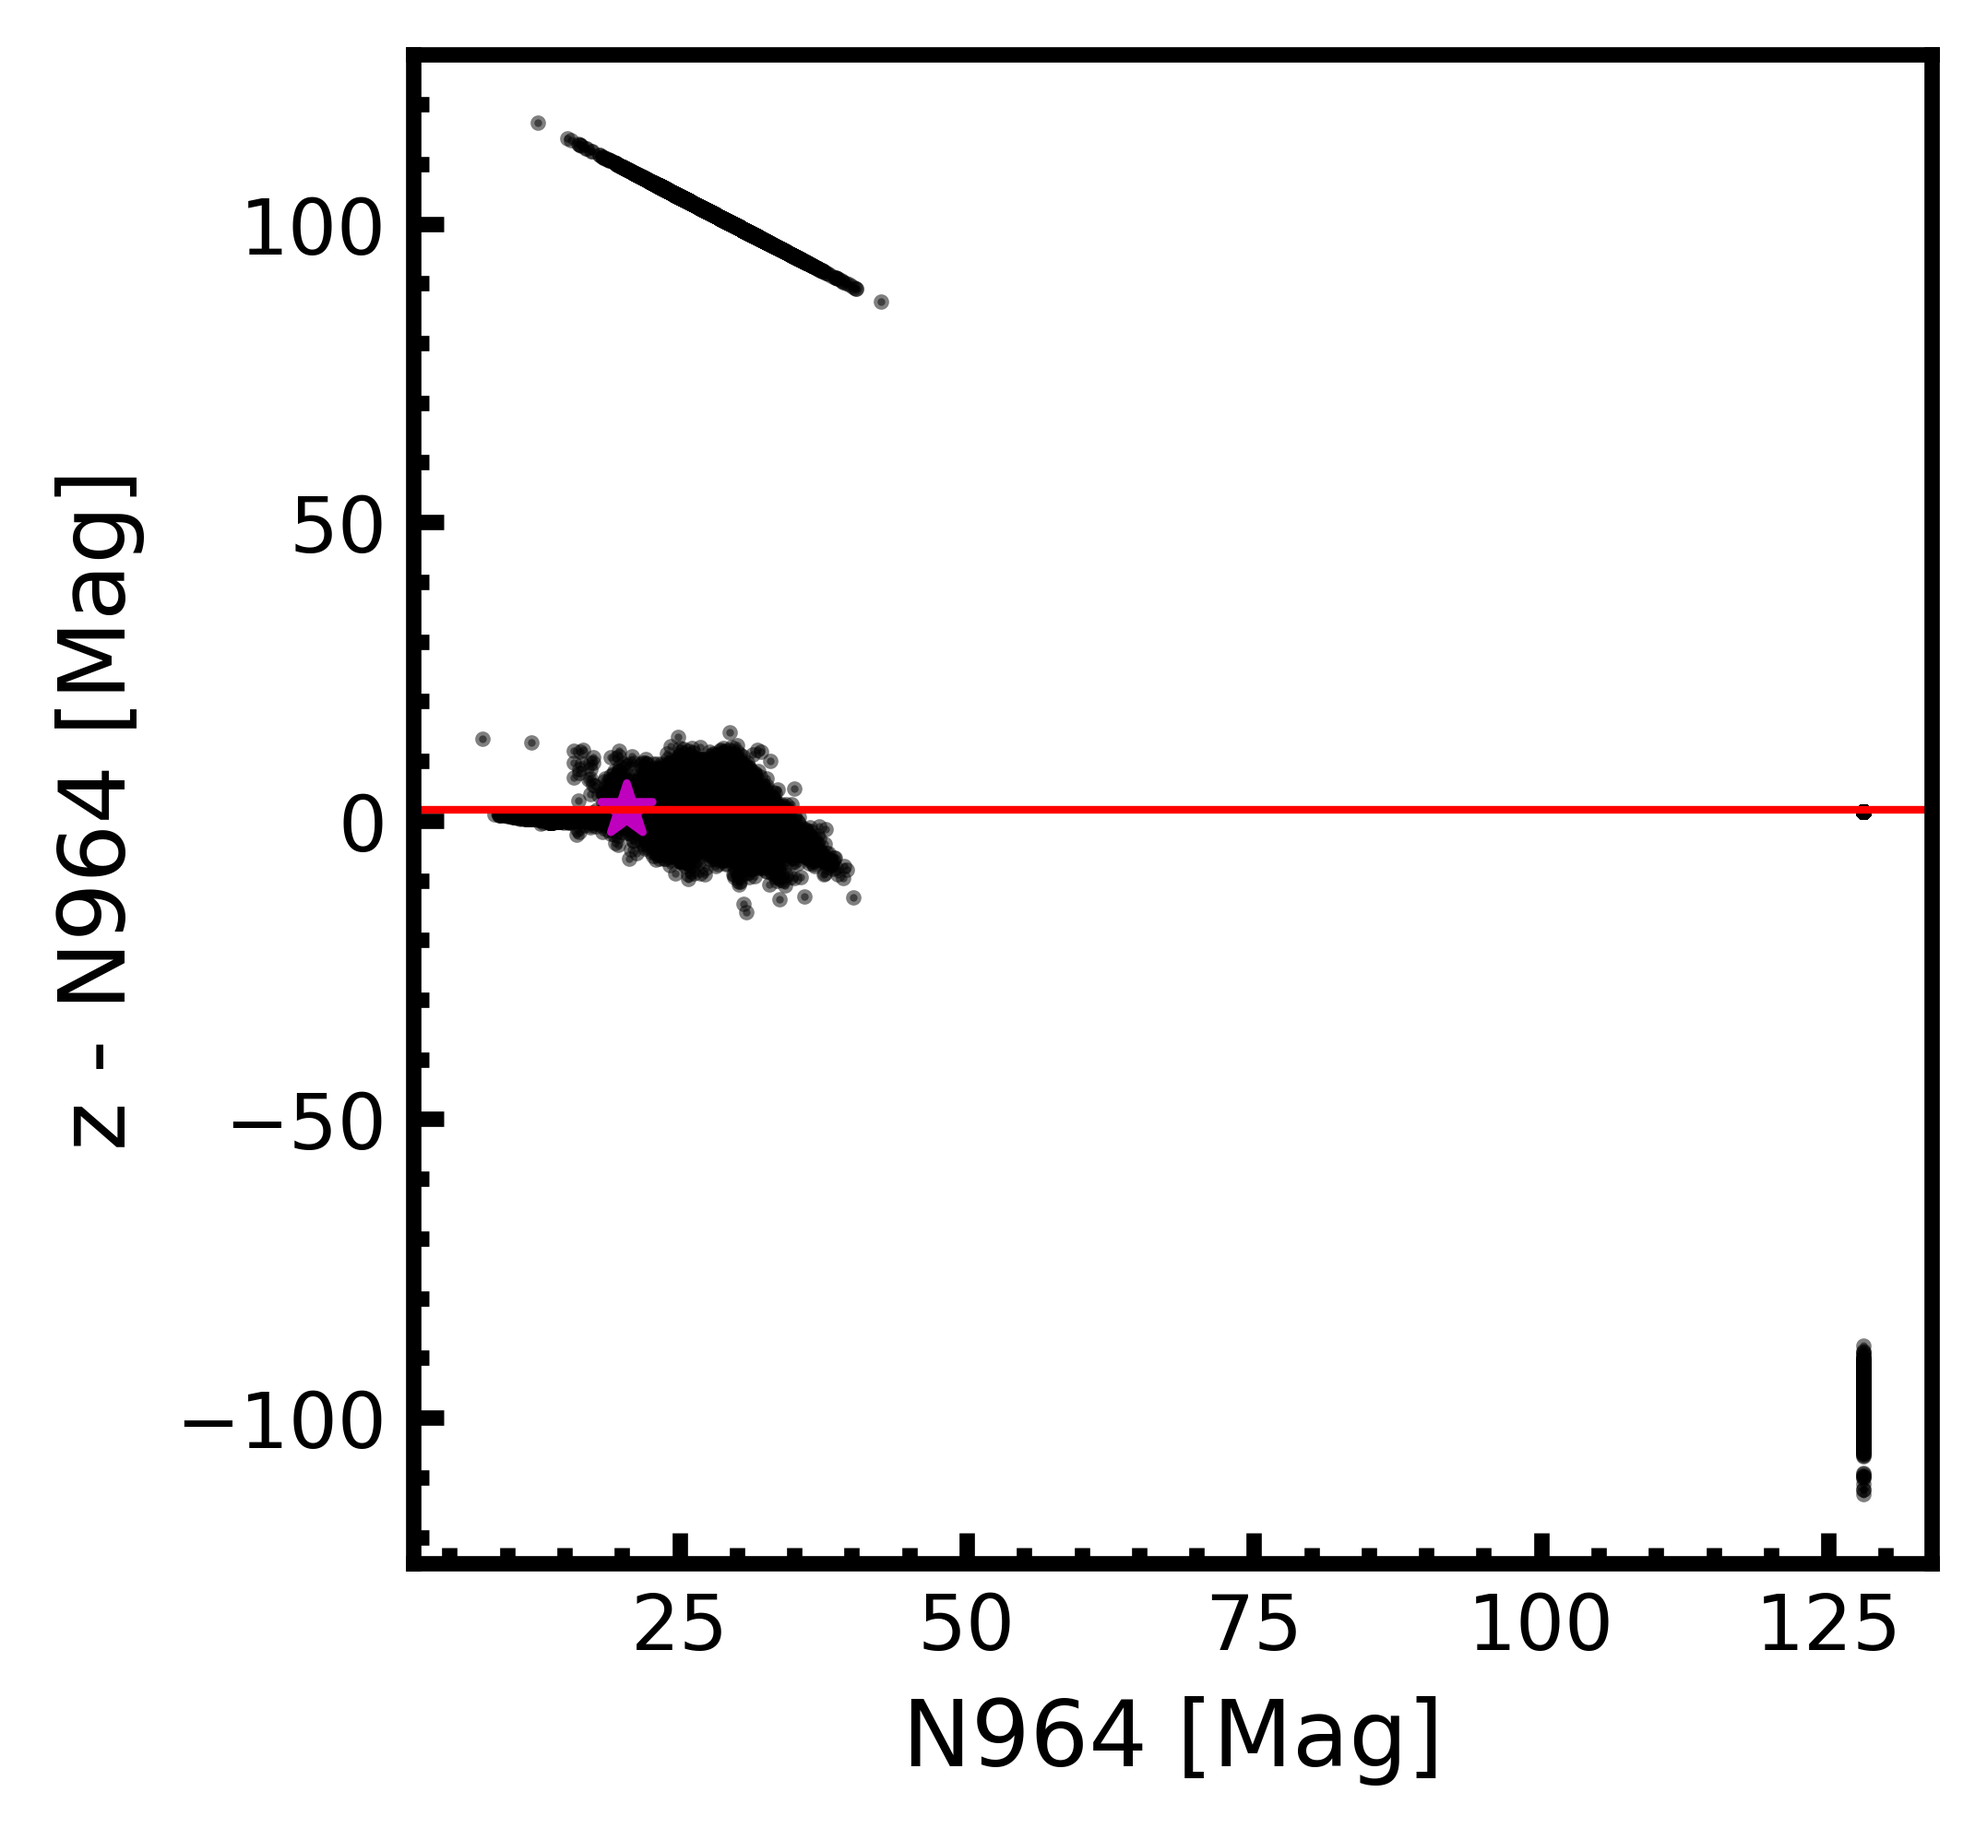
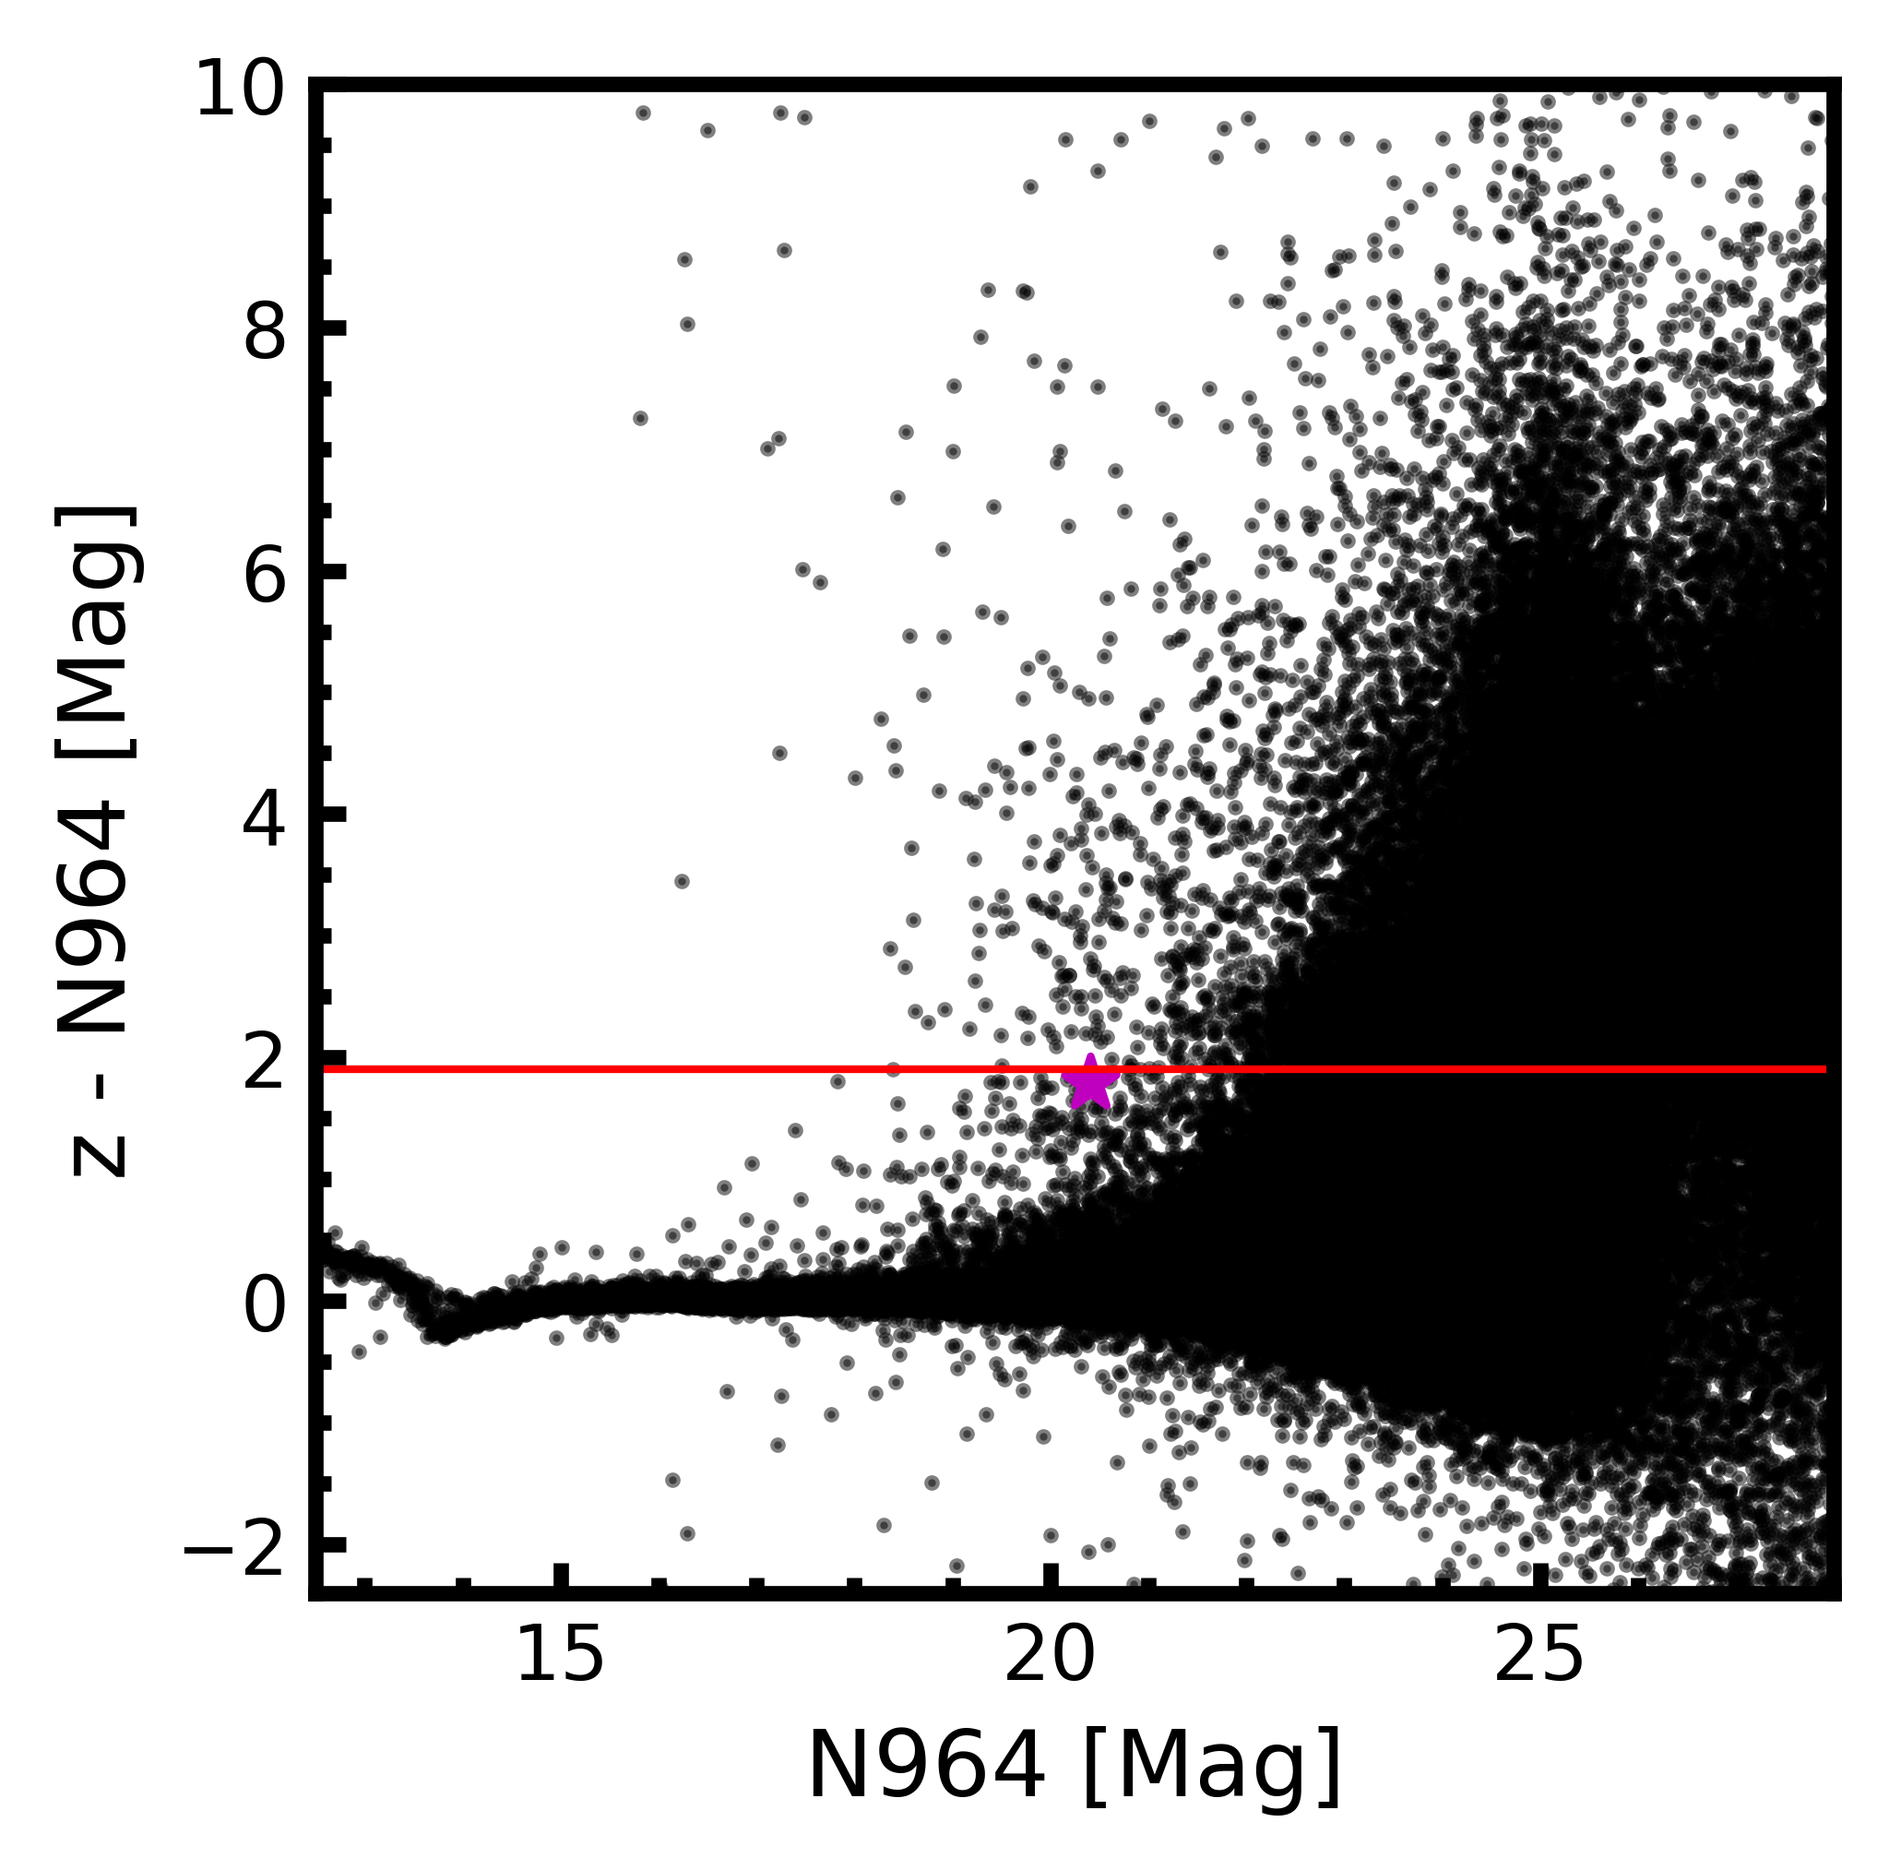
Adding selection functionality to the Hu plot.

diff --git a/hu_2019_plot.py b/hu_2019_plot.py
@@ -6,6 +6,7 @@ import matplotlib as mpl
 from astropy.coordinates import SkyCoord
 import astropy.units as u
 import plotting
+import postage_stamps as ps
 
 mpl.rcParams.update({'font.size': 2})
 plt.rcParams['font.size'] = 12
@@ -13,17 +14,20 @@ plt.rcParams['axes.linewidth'] = 2
 mpl.rc('xtick', labelsize=10)
 mpl.rc('ytick', labelsize=10)
 
+
+
+
 def read_in_test_cats(file_name: str):
     """read in the test cats for DECCAM"""
     ra, dec, mag = np.loadtxt(file_name, unpack=True, usecols=(0, 1, 4))
     return ra, dec, mag
 
-def remove_dumb_values(array_1, array_2):
-    """Will remove any 99 values that exist"""
-    cut_1 = np.where(array_1 != 99)[0]
-    cut_2 = np.where(array_2 != 99)[0]
-    cut = np.union1d(cut_1, cut_2)
-    return cut
+
+MAG_ZPTS = {
+    'z': 30.538,
+    'n964': 29.012,
+    'i': 30.870,
+}
 
 if __name__ == '__main__':
     Z_FILE = '../correct_stacks/N964/z.cat'
@@ -36,10 +40,9 @@ if __name__ == '__main__':
     z_ra, z_dec, z_mag = read_in_test_cats(Z_FILE)
     n_ra, n_dec, n_mag = read_in_test_cats(N_FILE)
 
-    z_mag += 30.538
-    n_mag += 29.012
-    i_mag += 30.870
-    #good_idx = remove_dumb_values(z_mag, n_mag)
+    z_mag += MAG_ZPTS['z']
+    n_mag += MAG_ZPTS['n964']
+    i_mag += MAG_ZPTS['i']
 
     catalog = SkyCoord(ra = n_ra*u.deg, dec = n_dec*u.deg)
     c = SkyCoord(ra = RA_QSO * u.deg, dec = DEC_QSO * u.deg)
@@ -48,18 +51,6 @@ if __name__ == '__main__':
     print(i_ra[idx], i_dec[idx])
     print(d2d)
     print(RA_QSO, DEC_QSO)
-
-    plotting.start_plot('N964 [Mag]', 'z - N964 [Mag]')
-    plt.scatter(n_mag, z_mag - n_mag, s=1, color='k', alpha=0.5)
-    plt.scatter(n_mag[idx], z_mag[idx] - n_mag[idx], marker='*', s=50, color='m')
-    #plt.xlim(12.5, 28)
-    #plt.ylim(-2.4,10)
-    plt.axhline(1.9, color='r', lw=1)
-    plotting.end_plot('plots/hu_plot_z.png')
-
-    plotting.start_plot('N964 [Mag]', 'i - N964 [Mag]')
-    plt.scatter(n_mag, i_mag - n_mag, s=1, color='k', alpha=0.5)
-    plt.scatter(n_mag[idx], i_mag[idx] - n_mag[idx], marker='*', s=50, color='m')
     print('i: ', i_mag[idx])
     print('z: ', z_mag[idx])
     print('n964: ',n_mag[idx])
@@ -68,8 +59,38 @@ if __name__ == '__main__':
     print('i - z: ', i_mag[idx] - z_mag[idx])
     print('z - n964: ', z_mag[idx] - n_mag[idx])
 
+        
+    # Making the Hu plots
+    plotting.start_plot('N964 [Mag]', 'z - N964 [Mag]')
+    plt.scatter(n_mag, z_mag - n_mag, s=1, color='k', alpha=0.5)
+    plt.scatter(n_mag[idx], z_mag[idx] - n_mag[idx], marker='*', s=50, color='m')
+    plt.xlim(12.5, 28)
+    plt.ylim(-2.4,10)
+    plt.axhline(1.9, color='r', lw=1)
+    plotting.end_plot('plots/hu_plot_z.png')
 
-    #plt.xlim(12.5, 28)
-    #plt.ylim(-2.4,10)
+    plotting.start_plot('N964 [Mag]', 'i - N964 [Mag]')
+    plt.scatter(n_mag, i_mag - n_mag, s=1, color='k', alpha=0.5)
+    plt.scatter(n_mag[idx], i_mag[idx] - n_mag[idx], marker='*', s=50, color='m')
+    plt.xlim(12.5, 28)
+    plt.ylim(-2.4,10)
     plt.axhline(0.8, color='r', lw=1)
     plotting.end_plot('plots/hu_plot_i.png')
+    plt.show()
+
+
+    fig, ax = plt.subplots()
+    #coll = ax.scatter(testData[:,0], testData[:,1], color=["blue"]*len(testData), picker = 5, s=[50]*len(testData))
+    coll = ax.scatter(n_mag, z_mag - n_mag, s=1, color='k', alpha=0.5, picker = True)
+    ax.scatter(n_mag[idx], z_mag[idx] - n_mag[idx], marker='*', s=100, color='m')
+    ax.set_xlim(12.5, 28)
+    ax.set_ylim(-2.4, 10)
+
+    plt.axhline(1.9, color='r', lw=1)
+
+    def on_pick(event):
+        ps.show_stamps(n_ra[event.ind], n_dec[event.ind])
+
+
+    fig.canvas.mpl_connect('pick_event', on_pick)
+    plt.show()

diff --git a/postage_stamps.py b/postage_stamps.py
@@ -1,0 +1,47 @@
+""" Module to plot postage stamp across all three filters based on positon. """
+
+from astropy.io import fits
+from astropy.wcs import WCS
+import pylab as plt
+import astropy
+IMAGES = (
+    '../correct_stacks/N964/i.fits',
+    '../correct_stacks/N964/z.fits',
+    '../correct_stacks/N964/n964.fits',
+)
+
+FITS_OBJECTS = [fits.open(image) for image in IMAGES]
+
+PAD = 20 # pixels
+
+def cut_postage_stamp(ra: float, dec: float, image):
+    """Cutting out a postage stamp centered on ra, and dec (in decimal degrees)"""
+    wcs = WCS(image[0].header)
+    x_pix, y_pix  = wcs.world_to_pixel_values(ra, dec)
+    data = image[0].data[
+        int(y_pix)-PAD:int(y_pix)+PAD, int(x_pix)-PAD:int(x_pix)+PAD]
+    return data
+
+def show_stamps(ra: float, dec: float):
+    """Cuts out postage stamps for all three images."""
+    data_i = cut_postage_stamp(ra, dec, FITS_OBJECTS[0])
+    data_z = cut_postage_stamp(ra, dec, FITS_OBJECTS[1])
+    data_n964 = cut_postage_stamp(ra, dec, FITS_OBJECTS[2])
+
+    plt.subplot(131)
+    plt.imshow(data_i)
+    plt.title('i-band')
+    plt.subplot(132)
+    plt.imshow(data_z)
+    plt.title('z-band')
+    plt.subplot(133)
+    plt.imshow(data_n964)
+    plt.title('NB964-band')
+    plt.show()
+
+if __name__ == '__main__':
+    RA_QSO = (23 + (48/60) + (33.34/3600)) * (360/24)
+    DEC_QSO = (30 + (54/60) + (10.0/3600)) * -1
+
+    show_stamps(RA_QSO, DEC_QSO)
+    
